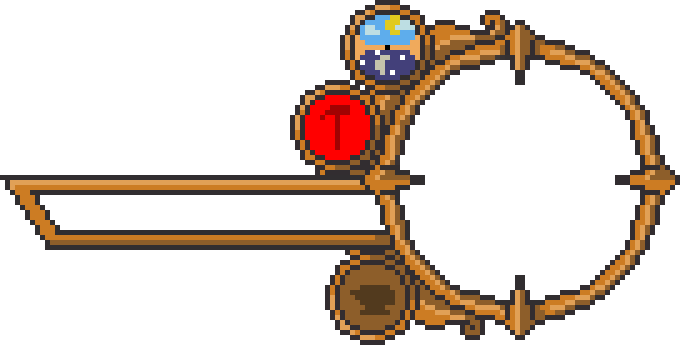
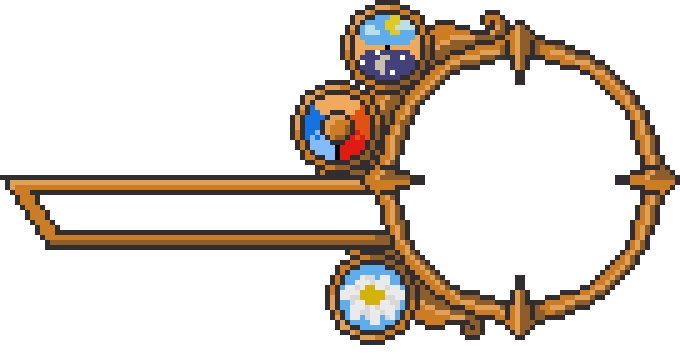
adiciona sprites do grifo

Changed region(s): [[0.4324, 0.2444, 0.5559, 0.4583], [0.4941, 0.7333, 0.6176, 0.9167]]

diff --git a/lib/game/interface/minimap.dart b/lib/game/interface/minimap.dart
@@ -49,9 +49,13 @@ class GameMiniMap extends StatelessWidget {
               // child: SizedBox(height: 64, width: 352, child: DecoratedBox(decoration: BoxDecoration(color: Color(0xffff0000))))),
               child: SizedBox(height: 64, width: (controller.playerLife * 3.52), child: DecoratedBox(decoration: BoxDecoration(color: Color(0xffff0000))))),
             InterfaceSpriteSheet.miniMapDecoration,
-            Positioned(top: 18, right: 294, child: Transform.rotate(angle: ((2 * pi) / 24 * controller.hour) - pi, child: SizedBox(height: 60, width: 3, child: Column(
+            Positioned(top: 18, right: 292, child: Transform.rotate(angle: ((2 * pi) / 24 * controller.hour) - pi, child: SizedBox(height: 60, width: 3, child: Column(
               children: [
-                 SizedBox(height: 40, width: 3,child: DecoratedBox( decoration: BoxDecoration(color: Colors.red),)),
+                 SizedBox(height: 40, width: 3,child: DecoratedBox( decoration: BoxDecoration(color: Colors.red[900]),)),
+               ],
+             )))),Positioned(top: 97, right: 341, child: Transform.rotate(angle: ((2 * pi) / 24 * controller.hour) - pi, child: SizedBox(height: 60, width: 3, child: Column(
+              children: [
+                 SizedBox(height: 16, width: 3,child: DecoratedBox( decoration: BoxDecoration(color: Colors.black),)),
                ],
              )))),
             Positioned(bottom: 56, right: 400, child: Row(

diff --git a/lib/game/controller/game_controller.dart b/lib/game/controller/game_controller.dart
@@ -32,6 +32,13 @@ class LocalGameController with ChangeNotifier {
   bool _resetColision = false;
   bool get resetColision => _resetColision;
 
+  String _currentArmor = '';
+  String get currentArmor => _currentArmor;
+
+  void setCurrentArmor(String armor) {
+    _currentArmor = armor;
+  }
+
   double _playerLife = 100;
   int _playerWallet = 0;
   int _playerFollowers = 0;
@@ -370,7 +377,6 @@ class LocalGameController with ChangeNotifier {
       minute += 10;
     }
 
-    // Future.delayed(Duration(seconds: 10), () {
     Future.delayed(Duration(seconds: 10), () {
       passMinute();
     });
@@ -439,10 +445,9 @@ class LocalGameController with ChangeNotifier {
   }
 
   Future<void> changeEquipment(String armor) async {
-  SimpleDirectionAnimation newAnimations = await generateDirectionAnimation(armor);
-
-  setCurrentPlayerAnimation(newAnimations);
-  
+    SimpleDirectionAnimation newAnimations = await generateDirectionAnimation(armor);
+    setCurrentPlayerAnimation(newAnimations);
+    setCurrentArmor(armor);
   }
 
   Future<SimpleDirectionAnimation> generateDirectionAnimation(String armor) async {

diff --git a/lib/game/objects/chest.dart b/lib/game/objects/chest.dart
@@ -26,7 +26,11 @@ class Chest extends GameDecoration with Attackable {
 
   @override
   void onReceiveDamage(attacker, double damage, identify, damageType) {
-    localGameController.changeEquipment('yeti');
+    if (localGameController.currentArmor == 'yeti') {
+      localGameController.changeEquipment('griffin');
+    } else {
+      localGameController.changeEquipment('yeti');
+    }
     
     // localGameController.minigameIsActive
     //     ? localGameController.miniGameHit()
